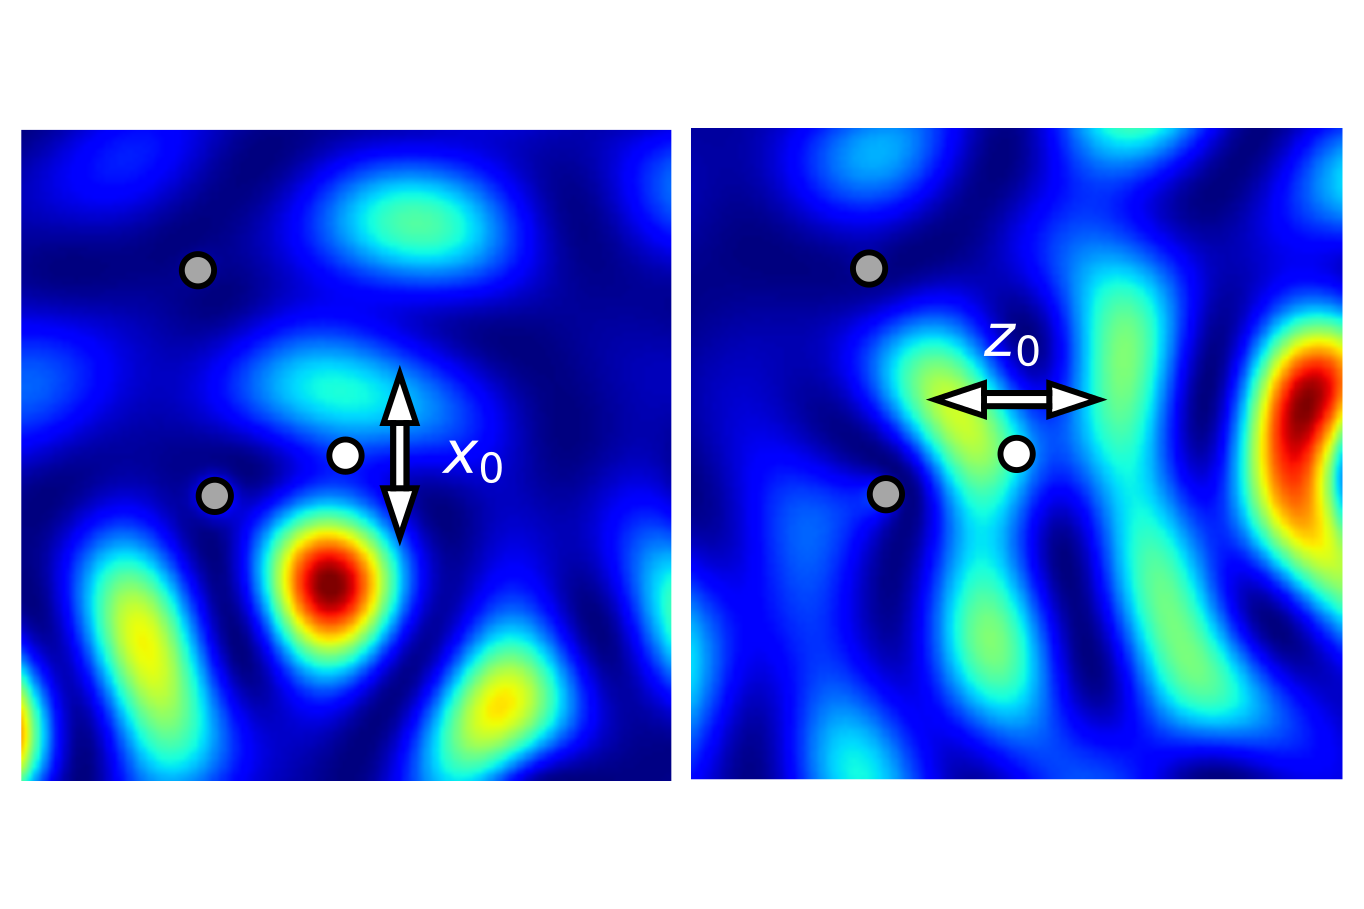
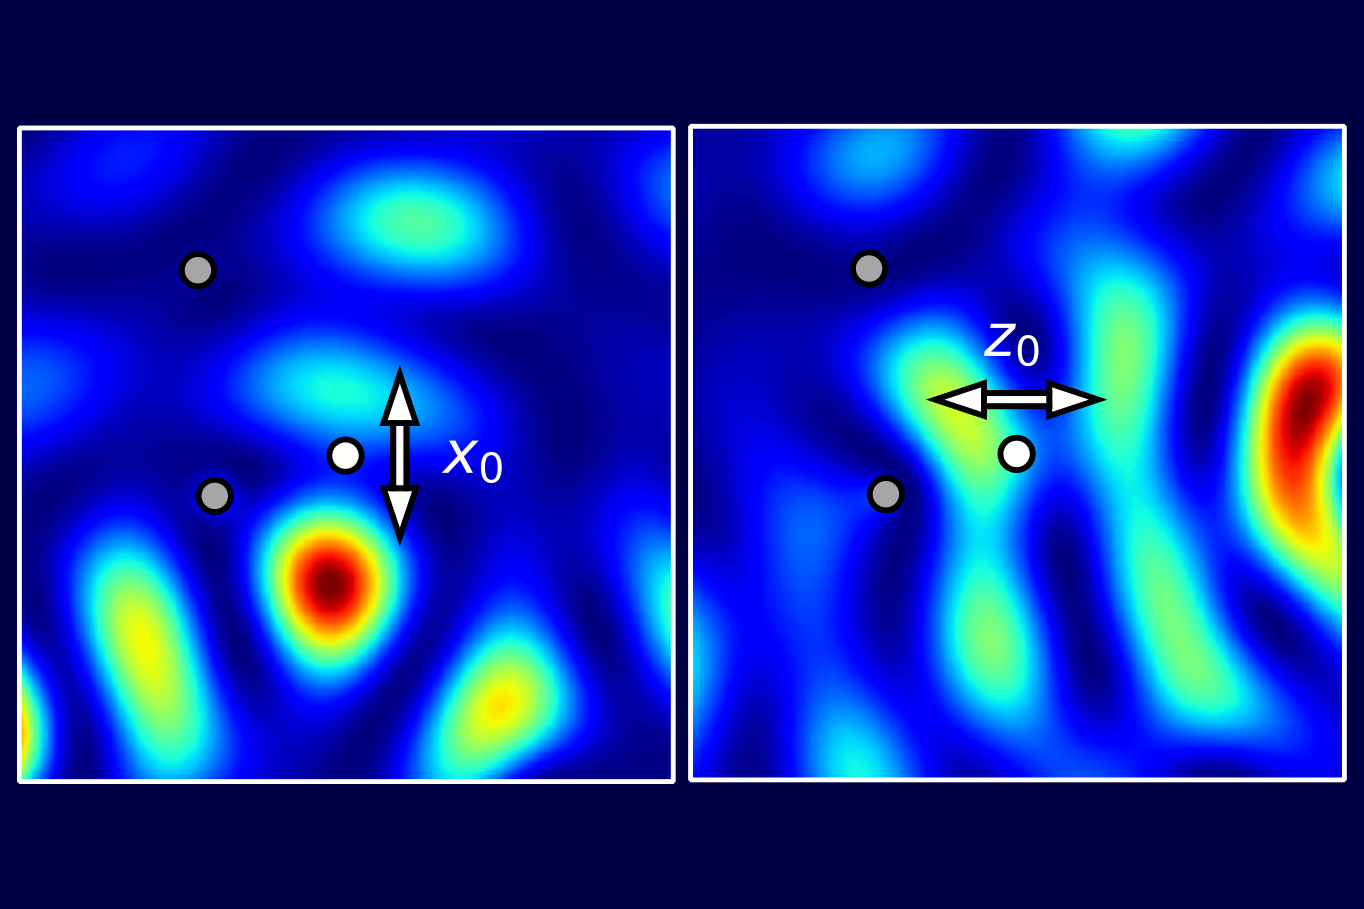
add pictures for highlights

diff --git a/_projects/prl2021.md b/_projects/prl2021.md
@@ -7,13 +7,10 @@ importance: 3
 related_publications: true
 ---
 
-<div class="row justify-content-sm-center">
-  <div class="col-sm-6 mt-3 mt-md-0">
-    {% include figure.liquid path=path="assets/img/highlights/prl2021_highres1.jpg" class="img-fluid rounded z-depth-1" %}
-  </div>
-  <div class="col-sm-6 mt-3 mt-md-0">
-    {% include figure.liquid path=path="assets/img/highlights/prl2021_highres2.jpg" class="img-fluid rounded z-depth-1" %}
-  </div>
+<div class="row">
+    <div class="col-sm mt-3 mt-md-0">
+        {% include figure.liquid loading="eager" path="assets/img/highlights/prl2021_highres.jpg" class="img-fluid rounded z-depth-1" %}
+    </div>
 </div>
 <div class="caption">
 Intensity measured with the optimal incident field when the hidden target is absent (left) and present (right). Because of complex scattering processes, these distributions appear as speckle patterns. Despite this complexity, the optimal light field is strongly affected by the presence of the target, which allows us to detect it with a minimum rate of error.
